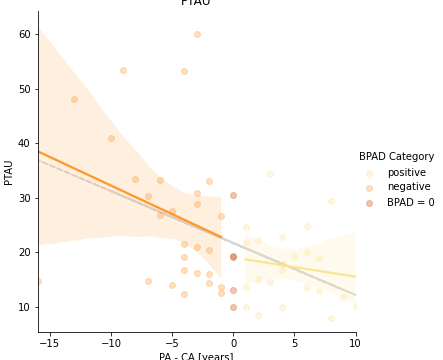
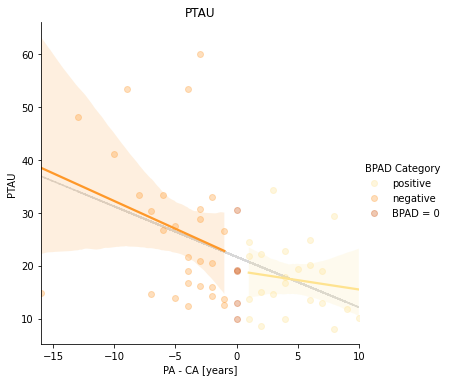
add new results with better plotting

diff --git a/src/neuropsychology_correlations.py b/src/neuropsychology_correlations.py
@@ -85,7 +85,7 @@ def neuropsych_correlation(y_true, y_pred, age_or_diff, neuropsych_var,
                 plt.title(n)
                 plt.savefig(fname="../results/" + database + "/plots/" +
                             group + "/" + modality + "_" + age_or_diff +
-                            "_" + n + ".png")
+                            "_" + n + ".png", bbox_inches="tight")
                 plt.show()
 
     for key in sign:
